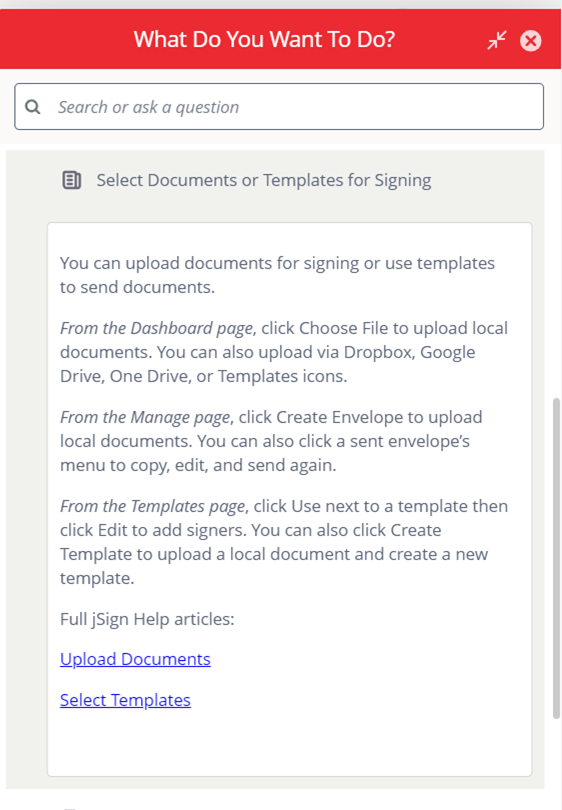
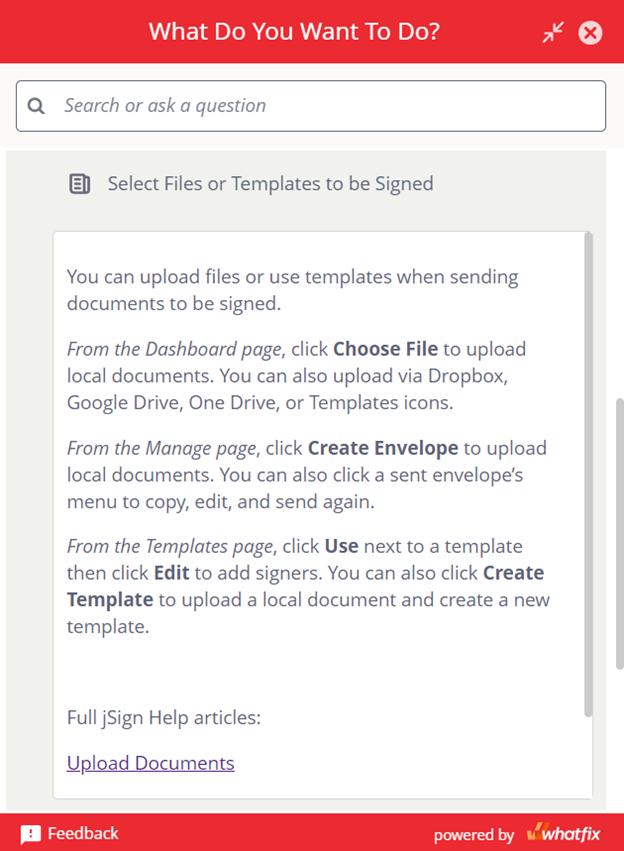
jsign articles

diff --git a/content/project/jSign WF content/index.md b/content/project/jSign WF content/index.md
@@ -48,6 +48,9 @@ I first created a list of article topics based on jSign's most basic, and likely
 **Microcontent Article** pared down from its [original version](https://docs.jsign.com/help/webapp/themanagepg/indctwhowhr2sgn.htm)
 ![screen reader text](jsignarticle2.png)
 
+**Microcontent Article** pared down from its [original version](https://docs.jsign.com/help/webapp/thecontactspg/entrcntctsinfo.htm)
+![screen reader text](jsignarticle3.png)
+
 
 ![screen reader text](filename.png)
 ![screen reader text](filename.png)
